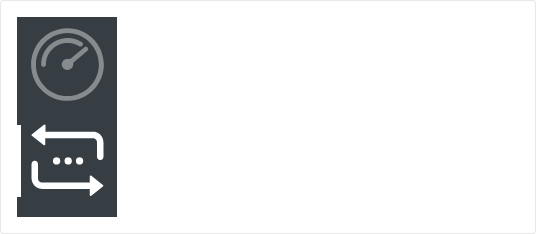
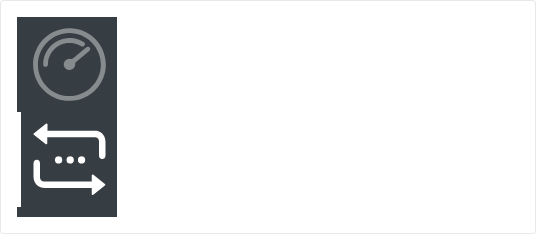
fix(nav): fix unit tests, format code

diff --git a/src/components/SideNav/SideNavMenuItem.jsx b/src/components/SideNav/SideNavMenuItem.jsx
@@ -17,11 +17,18 @@ function SideNavMenuItem (props) {
     additionalProps.activeClassName = 'side-nav_active'
     additionalProps.to = to
   }
-  const elementClasses = cx('side-nav__icon-container', { 'side-nav_active': active && !elementReplaced })
+  const elementClasses = cx('side-nav__icon-container', {
+    'side-nav_active': active && !elementReplaced
+  })
 
   return (
     <li className={cx('side-nav__item', className)}>
-      <ElementType className={elementClasses} {...additionalProps} {...rest} style={{ width: '100%' }}>
+      <ElementType
+        className={elementClasses}
+        {...additionalProps}
+        {...rest}
+        style={{ width: '100%' }}
+      >
         <React.Fragment>
           {image ? <img src={image} /> : null}
           {children}

diff --git a/src/components/TopNav/TopNavContent.jsx b/src/components/TopNav/TopNavContent.jsx
@@ -6,10 +6,7 @@ const TopNavContent = props => {
   const { link, children, className, ...rest } = props
   const linkClass = link ? 'nav__item--link' : ''
   return (
-    <div
-      className={classnames(`nav__item ${linkClass}`, className)}
-      {...rest}
-    >
+    <div className={classnames(`nav__item ${linkClass}`, className)} {...rest}>
       {children}
     </div>
   )

diff --git a/src/components/SideNav/SideNav.jsx b/src/components/SideNav/SideNav.jsx
@@ -7,10 +7,7 @@ import React from 'react'
 const SideNav = props => {
   const { className, children, ...rest } = props
   return (
-    <nav
-      className={classnames(className, 'octagon side-nav')}
-      {...rest}
-    >
+    <nav className={classnames(className, 'octagon side-nav')} {...rest}>
       {children}
     </nav>
   )

diff --git a/CONTRIBUTING.md b/CONTRIBUTING.md
@@ -194,11 +194,14 @@ $ git checkout -b my-branch -t origin/master
 
 we follow the default settings for [semantic-release](https://github.com/semantic-release/semantic-release).  please see [the default commit message format](https://github.com/semantic-release/semantic-release#default-commit-message-format) for participation instructions.
 
-commits should be small, targetted, and focused.  unfocused changes need to be split into multiple prs and are subject to friendly but stubborn rejection.
+commits should be small, targeted, and focused.  unfocused changes need to be split into multiple prs and are subject to friendly but stubborn rejection.
 
 ### step 4: test
 
+Ensure that you have [Docker](https://www.docker.com/get-started) installed for your OS.
+
 - run Standard linter to ensure code formatting is correct (or set up your editor to automate this)
+- run `yarn styleguide:build` to build the style guide.
 - run `yarn test` to use our tests against your changes including webjerk image diffing
 - **tests will likely initially fail if you have created or updated a component. this is because we are using [Snapjerk](https://www.npmjs.com/package/snapjerk) image-diffing software.**
 > if you approve of the changes Snapjerk displays you need will to update the reference set:

diff --git a/src/components/SideNav/SideNav.examples.md b/src/components/SideNav/SideNav.examples.md
@@ -12,16 +12,18 @@ const iconOperations = require('../../assets/icon_mainav_ops_selected.svg');
 
 #### React-Router NavLink
 
-SideNav.MenuItem Supports wrapping a react-router NavLink object.  This greatly simplifies creating a menu that links to react-router sicne the active highlighting is handled automatically.
+SideNav.MenuItem Supports wrapping a react-router NavLink object.  This greatly simplifies 
+creating a menu that links to react-router since the active highlighting is handled automatically.
 
 ```js
 const iconDashboard = require('../../assets/icon_mainav_dash_selected.svg');
 const iconOperations = require('../../assets/icon_mainav_ops_selected.svg');
 const { MemoryRouter, NavLink } = require('react-router-dom');
-<MemoryRouter>
+
+<MemoryRouter initialEntries={[ '/link1', '/link2' ]} initialIndex={0} >
   <SideNav style={{maxHeight: '200px', minHeight: '200px'}}>
-    <SideNav.MenuItem as={NavLink} to='/link2' image={iconOperations} />
     <SideNav.MenuItem as={NavLink} to='/link1' active image={iconDashboard} />
+    <SideNav.MenuItem as={NavLink} to='/link2' image={iconOperations} />
   </SideNav>
 </MemoryRouter>
 ```
